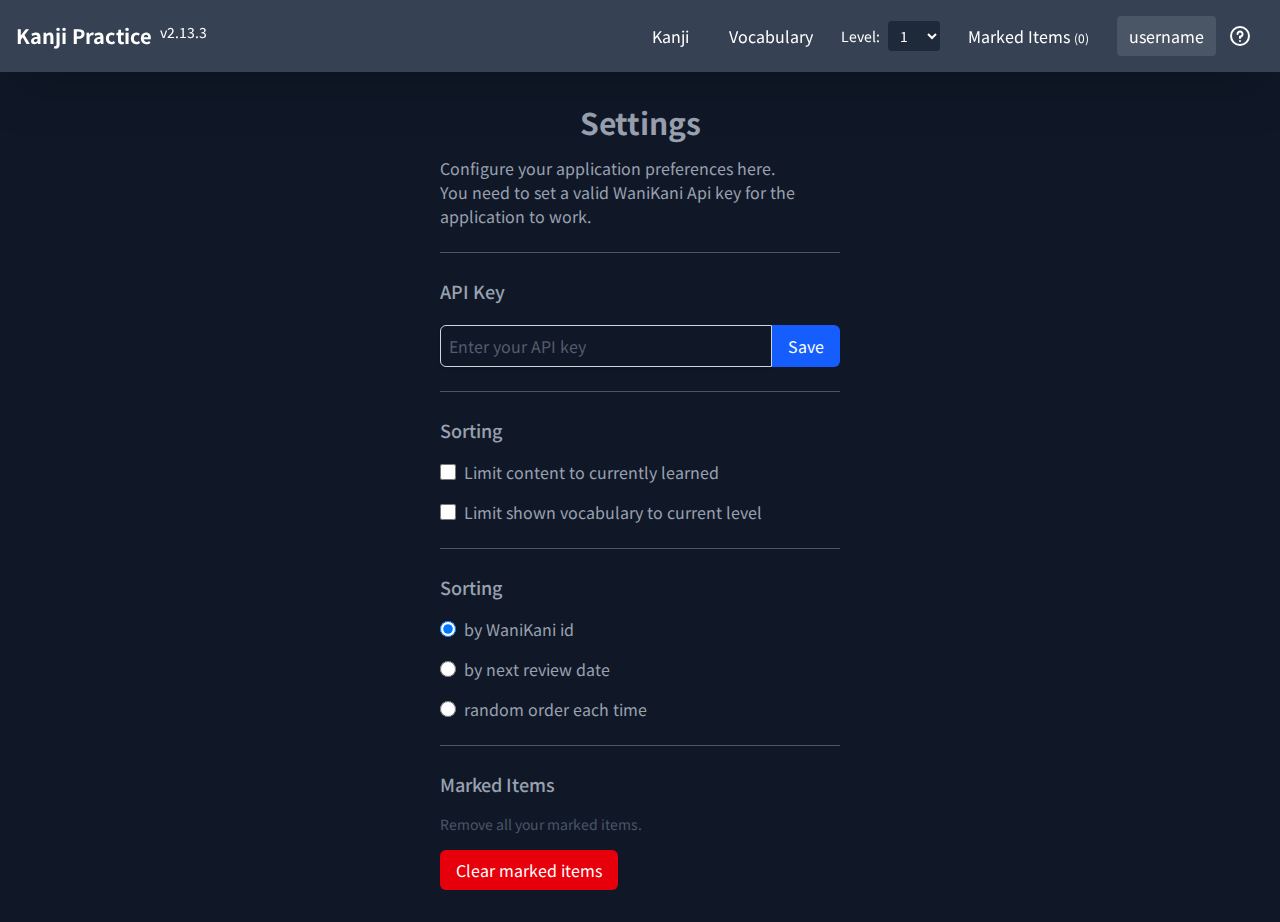
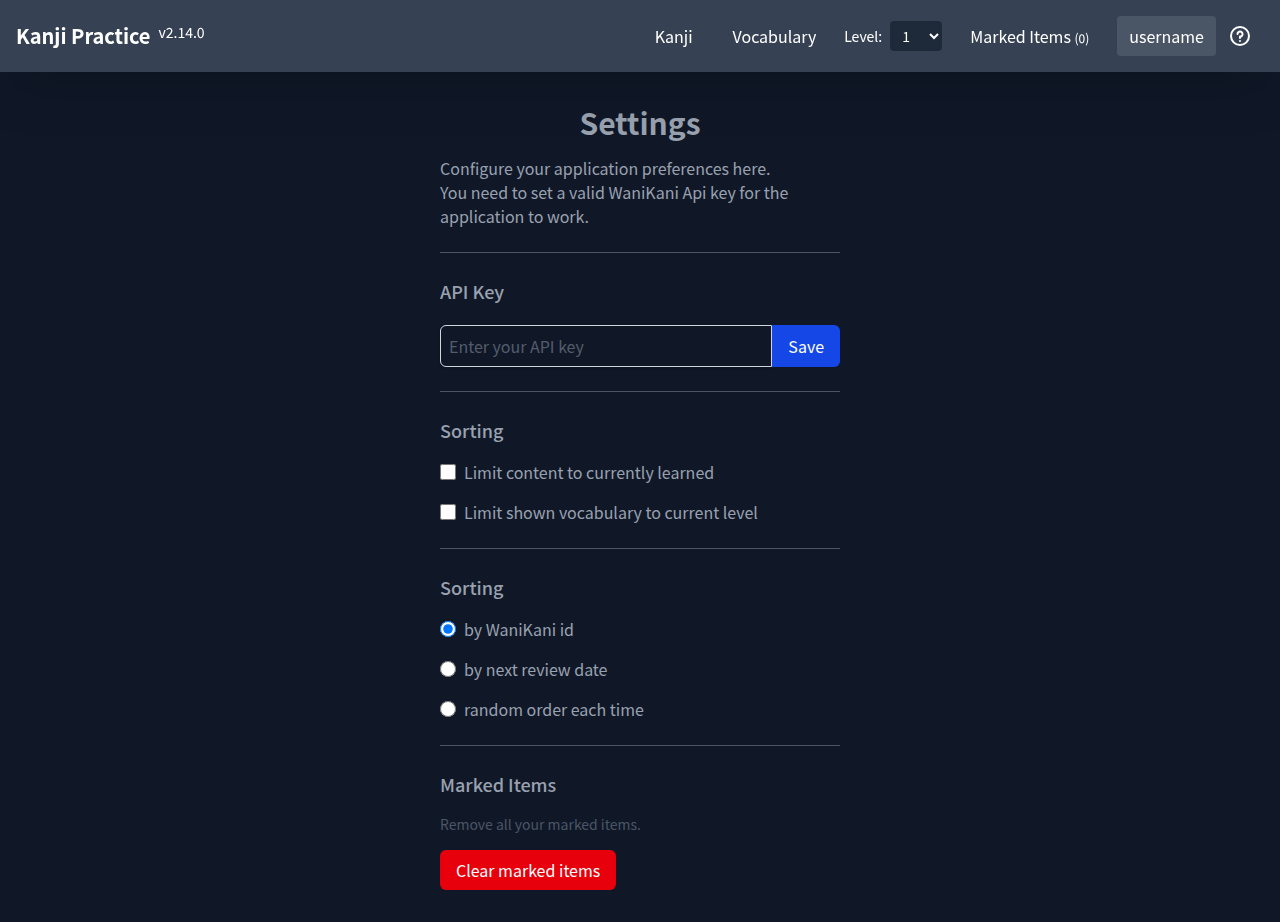
docs: update docs for e2e suite, sync caching and refreshed screenshots

diff --git a/docs/technical.md b/docs/technical.md
@@ -2,7 +2,7 @@
 
 Kanji Practice is a client-side single-page app for drilling kanji and vocabulary readings. It uses the user's own [WaniKani](https://www.wanikani.com) data. There is no backend: the browser talks to the WaniKani v2 API directly and keeps everything in IndexedDB.
 
-> Written from the source code and checked against the running app (v2.13.3). See [Verification status](#verification-status).
+> Written from the source code. The manual browser run was against v2.13.3; the automated e2e suite covers the current version. See [Verification status](#verification-status).
 
 ## Scope and non-goals
 
@@ -38,14 +38,16 @@ pnpm run dev          # vp dev, default http://localhost:5173 (next free port if
 
 No environment variable is needed. Open the app, go to **Settings** and enter a WaniKani API token. The first start downloads the whole subject set, so expect a wait on the "Updating data..." screen.
 
-| Command              | Purpose                               |
-| -------------------- | ------------------------------------- |
-| `pnpm run dev`       | Dev server                            |
-| `pnpm run build`     | Production build into `dist/`         |
-| `pnpm run preview`   | Serve the build                       |
-| `pnpm run check`     | Format, lint, type check (`vp check`) |
-| `pnpm run typecheck` | `tsc -p tsconfig.app.json --noEmit`   |
-| `pnpm run test`      | Vitest (`vp test`)                    |
+| Command               | Purpose                                                                   |
+| --------------------- | ------------------------------------------------------------------------- |
+| `pnpm run dev`        | Dev server                                                                |
+| `pnpm run build`      | Production build into `dist/`                                             |
+| `pnpm run preview`    | Serve the build                                                           |
+| `pnpm run check`      | Format, lint, type check (`vp check`)                                     |
+| `pnpm run typecheck`  | `tsc` for `tsconfig.app.json` and `tsconfig.e2e.json` (`--noEmit`)        |
+| `pnpm run test`       | Vitest (`vp test`)                                                        |
+| `pnpm run e2e`        | Playwright end-to-end tests (starts the dev server)                       |
+| `pnpm run e2e:record` | Re-record the HAR from the real WaniKani API (needs `wkapikey` in `.env`) |
 
 Per `AGENTS.md`: run `vp install` after pulling, and `vp check` and `vp test` before finishing a change. Use `vp run <script>` for project scripts, since built-ins such as `vp dev` take precedence over scripts of the same name.
 
@@ -58,7 +60,8 @@ src/
   main.tsx                 mounts Suspense > SessionProvider > WanikaniProvider > ApplicationRouter
   App.tsx                  layout route: ItemProvider + audio provider + Navigation + <Outlet>
   wanikani.d.ts            types for subjects, assignments, collections, user
-  contexts/                SessionContext/Provider, WanikaniContext/Provider, ItemContext/Provider
+  contexts/                SessionContext/Provider, WanikaniProvider, ItemContext/Provider,
+                           WanikaniContext.ts (API base URL, resource paths, ResourceType; no React context)
   hooks/                   useSession, useItems, useSelectedItems, useRelatedVocabulary,
                            useKanjiComposition, usePlayVocabulary, ...
   utils/                   itemDB.ts (IndexedDB), wkLoad.ts (API + request cache),
@@ -74,6 +77,8 @@ src/
     shared/                KanaInput, List, SelectableButton, MainTerm, ProgressBar, ...
 public/                    favicons, robots.txt, .htaccess (Apache SPA rewrite + caching)
 docs/                      this documentation + WaniKani API reference (wanikani-api.yml, wanikani.txt)
+e2e/                       Playwright specs, support/test.ts (login fixture that replays the HAR),
+                           record.setup.ts (HAR recorder), scripts/sanitize-har.ts, fixtures/wanikani.har
 ```
 
 ## Architecture
@@ -104,25 +109,25 @@ State is plain React Context. There is no state library and no router loader lay
 `ApplicationRouter` depends on `isLoggedIn`:
 
 - Logged in: `/` redirects to `/kanji`. Routes are `/kanji`, `/vocabulary`, `/marked`, `/settings`.
-- Logged out: only `/settings` exists and everything else redirects there.
+- Logged out: only `/settings` exists. `/` (an index route) and every other path redirect there.
 
 `SessionProvider` always renders its children once it is active. The shared Suspense boundary in `main.tsx` shows the loading screen while the persisted settings, user lookup, and WaniKani sync promises resolve.
 
-**Logged-out root is blank.** The catch-all `path: "*"` route sits under the `/` layout route and does not match the bare `/`, so a logged-out visit to `/` renders the navigation bar and an empty page instead of redirecting to `/settings`. Any other path redirects correctly. Adding an index route with `<Navigate to="/settings" replace />` would fix it.
+The user lookup is cached per API key in `session.ts`. A failed lookup (network error or rejected key) is cached as `null` for the page's lifetime, so re-saving the same key does not retry until a reload. A different key is looked up again.
 
 ### API client (`src/utils/wkLoad.ts`)
 
-A single `fetchFn` sends `GET` with `Authorization: Bearer <apiKey>` and `Wanikani-Revision: 20170710`. A non-2xx response throws. It is registered three times on an in-memory `async-cache-dedupe` cache as `subjects`, `assignments` and `user`, so identical concurrent requests are de-duplicated and repeated ones are cached for the page's lifetime.
+A single `fetchFn` sends `GET` with `Authorization: Bearer <apiKey>` and `Wanikani-Revision: 20170710`. A non-2xx response throws. It is registered three times on an in-memory `async-cache-dedupe` cache as `subjects`, `assignments` and `user`. The cache TTL is the library default of 0 seconds, so it only de-duplicates identical requests that are in flight at the same time; a finished response is not kept. The per-key caching happens one level up: `getUser` (`session.ts`) and `getSync` (`wkSync.ts`) each keep one promise per API key for the page's lifetime.
 
 ### Sync (`src/utils/wkSync.ts`)
 
 1. Read all subjects and assignments from IndexedDB and take the newest `data_updated_at` of each.
-2. If a newest date exists, request `/subjects` or `/assignments` once with `updated_after=<date>` (incremental update).
-3. Otherwise do a full load: request the first page, then follow `pages.next_url` until it is empty.
+2. Load subjects (`/v2/subjects?types=kanji,vocabulary,kana_vocabulary`) and assignments (`/v2/assignments?started=true`) in parallel (`Promise.allSettled`).
+3. Per resource: if a newest date exists, request it once with `updated_after=<date>` (incremental update, not paginated). Otherwise do a full load: request the first page, then follow `pages.next_url` until it is empty.
 4. Every page is written to IndexedDB (`put`) as it arrives.
 5. While syncing, Suspense shows a full-screen "Updating data... (N resources loaded)" message. `N` counts requests through `syncProgress.ts`, which is an external store so the fallback can update outside the suspended provider tree.
 
-`WanikaniProvider` is a thin gate: when logged in, it calls `use(getSync(apiKey))`. The sync promise is cached per API key, so StrictMode retries do not duplicate the sync. Changing the API key creates a new cached promise and suspends until that key's sync completes. If sync fails, the error is logged to the console and the app opens with the data already stored in IndexedDB; the failed key is removed from the sync cache so a later reload can retry.
+`WanikaniProvider` is a thin gate: when logged in, it calls `use(getSync(apiKey))`. The sync promise is cached per API key, so StrictMode retries do not duplicate the sync. Changing the API key creates a new cached promise and suspends until that key's sync completes, so saving a new key in Settings shows the loading screen: first the user lookup, then the sync. If sync fails, the error is logged to the console and the app opens with the data already stored in IndexedDB. The key is also recorded in `failedSyncKeys`, so it is not retried in the same page session, even if it is saved again. Only a reload retries.
 
 ### Persistence (`src/utils/itemDB.ts`)
 
@@ -178,29 +183,30 @@ The `InfoTable` components (kanji and vocabulary) and `MarkButton` register thei
 
 ### Mnemonic markup (`src/utils/formatHint.ts`)
 
-WaniKani mnemonics contain tags such as `<reading>` and `<kanji>`. `formatHint` turns them into styled `<mark>` elements. This is the one unit-tested module (`formatHint.spec.ts`).
+WaniKani mnemonics contain tags such as `<reading>` and `<kanji>`. `formatHint` turns them into styled `<mark>` elements. It is covered by `formatHint.spec.ts`.
 
 ## Keyboard shortcuts
 
-| Key               | Action                                      | Defined in              |
-| ----------------- | ------------------------------------------- | ----------------------- |
-| Left / Right      | Previous / next item                        | practice page           |
-| Alt+Up / Alt+Down | Previous / next level (wraps)               | `Navigation.tsx`        |
-| Alt+A             | Open or close the item list                 | practice page           |
-| Alt+S             | Show or hide the item details               | practice page           |
-| Alt+M             | Mark or unmark the current item             | practice page           |
-| Enter             | Submit the answer, then go to the next item | `KanaInput.tsx`         |
-| Esc               | Close the help overlay or the item list     | `HelpOverlay.tsx`, list |
+| Key               | Action                                           | Defined in                                |
+| ----------------- | ------------------------------------------------ | ----------------------------------------- |
+| Left / Right      | Previous / next item                             | practice page                             |
+| Alt+Up / Alt+Down | Previous / next level (wraps)                    | `Navigation.tsx`                          |
+| Alt+A             | Open or close the item list                      | practice page                             |
+| Alt+S             | Show or hide the item details                    | practice page                             |
+| Alt+M             | Mark or unmark the current item                  | practice page                             |
+| Enter             | Submit the answer, then go to the next item      | `KanaInput.tsx`                           |
+| Esc               | Close the help overlay, mobile menu or item list | `HelpOverlay.tsx`, `MobileMenu.tsx`, list |
 
 ## Quality, CI and release
 
 - **Tests:** two layers.
-  - _Unit tests:_ Vitest through `vp test`. Only `src/utils/formatHint.spec.ts` exists.
-  - _End-to-end tests:_ Playwright Test (`pnpm run e2e`). Five spec files under `e2e/` cover login and sync, answer input, navigation, marking, and settings. They replay a committed HAR file (`e2e/fixtures/wanikani.har`) instead of calling the real WaniKani API, so they run offline and without credentials.
+  - _Unit tests:_ Vitest through `vp test`. Three specs in `src/utils/`: `formatHint.spec.ts` (mnemonic markup), `session.spec.ts` (saved settings are read, and cleared when the read fails) and `syncProgress.spec.ts` (the loading counter store). Vitest excludes `e2e/**`. The sync logic in `wkSync.ts` has no unit tests.
+  - _End-to-end tests:_ Playwright Test (`pnpm run e2e`). Five spec files under `e2e/` cover login and sync, answer input, navigation, marking, and settings. They replay a committed HAR file (`e2e/fixtures/wanikani.har`) instead of calling the real WaniKani API, so they run offline and without credentials. `playwright.config.ts` runs Chromium only at 1280x800 and starts `pnpm run dev` on port 5173; it reuses a dev server that is already running, except in CI.
 - **Re-recording the HAR:** run `pnpm run e2e:record` with a valid `wkapikey` in `.env`. The recorder opens the app, logs in, waits for the full sync, and writes the raw HAR. Then `e2e/scripts/sanitize-har.ts` trims it to levels 1–2, replaces account details with fixed values, strips all request headers (including the Authorization header), and fails the script if the API key is still present anywhere in the output.
 - Lint and format: Oxlint (`correctness` = error, not type-aware) and Oxfmt, both through `vp check`.
-- `.github/workflows/pull-request.yml` (PRs to `main`): frozen-lockfile install, check, typecheck, test, build.
-- `.github/workflows/deploy.yml` (push to `main`): the same checks, then `semantic-release`, a production build and an FTP upload of `dist/`. The FTP step needs the secrets `ftp_server`, `ftp_user` and `ftp_password`.
+- `.github/workflows/pull-request.yml` (PRs to `main`): frozen-lockfile install, check, typecheck, test, Playwright Chromium install, `pnpm run e2e`, build.
+- `.github/workflows/deploy.yml` (push to `main`): the same checks and e2e tests, a build, then `semantic-release`, a production build and an FTP upload of `dist/`. The FTP step needs the secrets `ftp_server`, `ftp_user` and `ftp_password`.
+- Both workflows upload `playwright-report/` as an artifact (kept 7 days) when a step fails. In CI, Playwright retries each failed test once.
 - `dependabot.yml`: daily npm updates.
 - `.releaserc.json`: conventional commits decide the version. Plugins: commit-analyzer, release-notes-generator, changelog, exec (formats `CHANGELOG.md`), npm (publish disabled), git (commits `package.json`, `pnpm-lock.yaml`, `CHANGELOG.md` as `chore(release): X [skip ci]`), github.
 - Deployment is a static upload. `public/.htaccess` rewrites unknown paths to `index.html` and sets cache lifetimes (one year for images and media, two hours for HTML, JS and CSS).
@@ -210,18 +216,20 @@ WaniKani mnemonics contain tags such as `<reading>` and `<kanji>`. `formatHint` 
 - **Incremental sync is not paginated.** `load()` in `src/utils/wkSync.ts` fetches once when a `updated_after` date exists and ignores `next_url`. A large delta (for example after a long absence) is truncated until a later sync picks up the rest.
 - **The API key is stored unencrypted** in IndexedDB, and the Settings field is a plain `type="text"` input, so the key is visible on screen.
 - **No offline mode** (no service worker or manifest).
-- **Blank page on `/` when logged out** (see [Login and routing](#login-and-routing)).
 - **A database version bump wipes all local data**, including settings.
 - **Duplicate heading on Settings.** Both the limit checkboxes and the sort radios sit under a heading called "Sorting".
-- **A failed sync is only reported in the console.** The app opens with locally cached data after a rejected sync request, so the user may see stale data until the next successful reload.
-- **Test coverage is minimal.**
+- **A failed sync is only reported in the console.** The app opens with locally cached data after a rejected sync request. That key is not synced again until the page reloads, so the user may see stale data until then.
+- **A failed token check is remembered until reload.** Re-saving the same key does not look it up again.
+- **Test coverage is minimal.** `wkSync.ts` (sync, including its failure handling) and `wkLoad.ts` (the API client) have no unit tests. The e2e suite exercises them only through the replayed HAR.
 
 ## Verification status
 
-The code was read first, then the app was driven in headless Chromium (Playwright 1.64.1, run through `@playwright/test` against the dev server, with a real WaniKani account):
+Manual run on v2.13.3 (historical). The code was read first, then the app was driven in headless Chromium (Playwright 1.64.1, run through `@playwright/test` against the dev server, with a real WaniKani account):
 
 - **Confirmed:** first-time sync and the "Updating data..." screen; login and the top bar; the Kanji, Vocabulary and Marked pages; the item list (Alt+A); details toggling (Alt+S); marking (Alt+M, the count in the top bar went 0 to 1); level change (Alt+Down went from level 1 to 2, Alt+Up back to 1); a wrong answer giving a red border; the help overlay; the mobile menu.
-- **Found while checking:** the blank page on `/` when logged out (see [Login and routing](#login-and-routing)).
-- **Not exercised:** a correct answer and Enter to advance, the three sort modes, "limit to learned", the audio, and the incremental sync on a second start.
+- **Not exercised in that run:** a correct answer and Enter to advance, the three sort modes, "limit to learned", the audio, and the incremental sync on a second start. The e2e suite below now covers all of these except the audio and the random sort mode.
+- **Automated, current version:** `pnpm run e2e` runs 29 Playwright tests against the dev server and the committed HAR. They cover the logged-out redirect from `/` and from other paths, bad and good tokens, the nav with the username, a second load, romaji and `nn` input, wrong and correct answers, Enter to advance, the arrow keys, Alt+S, related vocabulary, vocabulary composition and context sentence, the item list and Esc, the help overlay, the mobile menu button, the level selector with Alt+Up and Alt+Down, marking and clearing marks, "limit to learned", sorting by WaniKani id and by next review date, and settings surviving a reload.
+- **Still not exercised by the e2e suite:** audio playback (the fixture aborts `.mp3` requests), the random sort mode, the mobile menu's Esc key, and "limit shown vocabulary to current level". The second-load test checks only that the nav reappears; it does not assert that an `updated_after` request was made.
+- **Suspense refactor (commit `93ca08d`):** on 2026-11-04, on branch `refactor/suspense`, `vp check`, `vp test` (11 tests in 3 files), `pnpm run typecheck` and `pnpm run e2e` (29 of 29 passed) all passed.
 
 Screenshots in `docs/images/` have the username and API key masked.

diff --git a/docs/user-guide.md b/docs/user-guide.md
@@ -2,7 +2,7 @@
 
 Kanji Practice helps you drill the readings of the kanji and vocabulary you study in [WaniKani](https://www.wanikani.com). You type the reading, the app tells you whether it is right, and then shows the meanings, readings and mnemonics.
 
-> The screenshots were taken from the running app (v2.13.3) in a 1280 px wide browser window. Your username and API key are masked.
+> The screenshots were taken from the running app (v2.14.0) in a 1280 px wide browser window (390 px for the phone screens). Your username and API key are masked.
 
 ## What you need
 
@@ -12,13 +12,13 @@ Kanji Practice helps you drill the readings of the kanji and vocabulary you stud
 
 ## 1. Get started
 
-1. Open the app and go to **Settings**. Until you have a valid key, Settings is the only page. If you land on a blank page with only the "Settings" link in the top bar, click that link.
+1. Open the app and go to **Settings**. Until you have a valid key, Settings is the only page.
 2. In WaniKani, open your account settings, go to API tokens and create or copy a token.
 3. Paste the token into **API Key** and click **Save**.
 
    ![Settings page before login](images/01-settings-logged-out.png)
 
-4. The app checks the token. If it is valid, your username replaces "Settings" in the top bar and the **Kanji**, **Vocabulary** and **Marked Items** links appear.
+4. The app checks the token while the "Updating data..." screen is shown. If it is valid, your username replaces "Settings" in the top bar and the **Kanji**, **Vocabulary** and **Marked Items** links appear.
 5. The first time, the app downloads all WaniKani content. A full-screen message "Updating data... (N resources loaded)" shows progress. Later starts only fetch what changed.
 
    ![Updating data screen](images/02-updating-data.png)
@@ -155,9 +155,6 @@ The keyboard shortcuts need a keyboard, so on a phone use the on-screen controls
 | Esc          | Close the help overlay, menu or item list     |
 
 ## 9. Troubleshooting and FAQ
-
-**I only see a blank page with a "Settings" link.**
-You have no valid key yet. Click **Settings** and save your token.
 
 **Only Settings is available.**
 No key is saved, or WaniKani rejected it. Create a new token and save it again.
